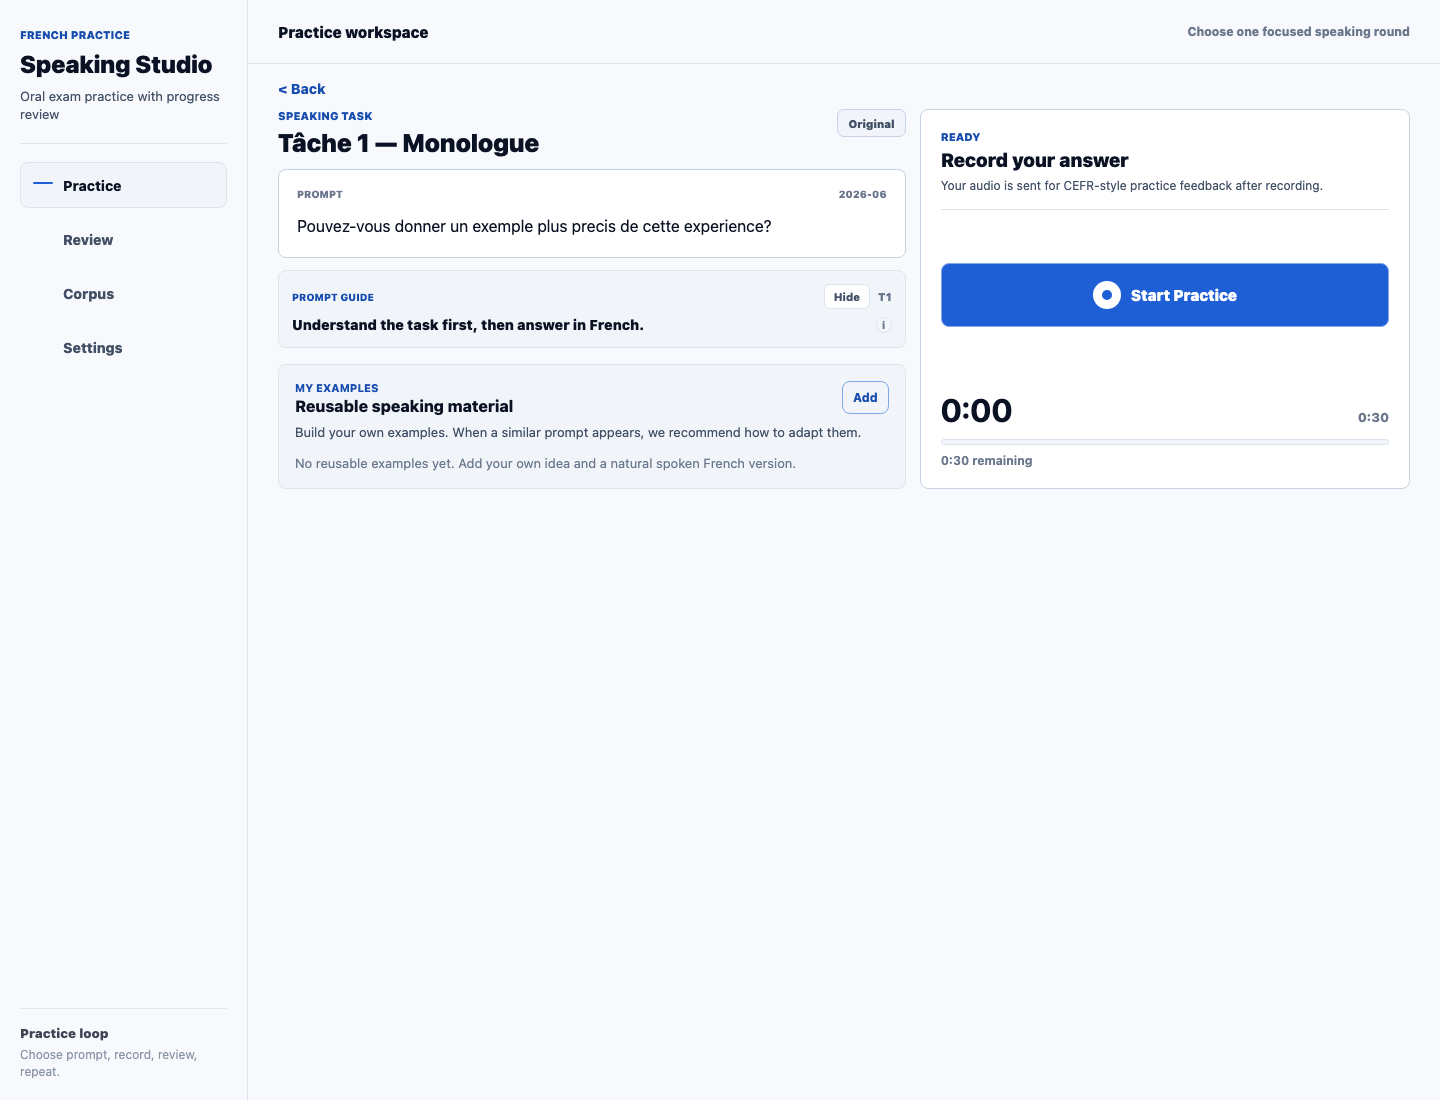
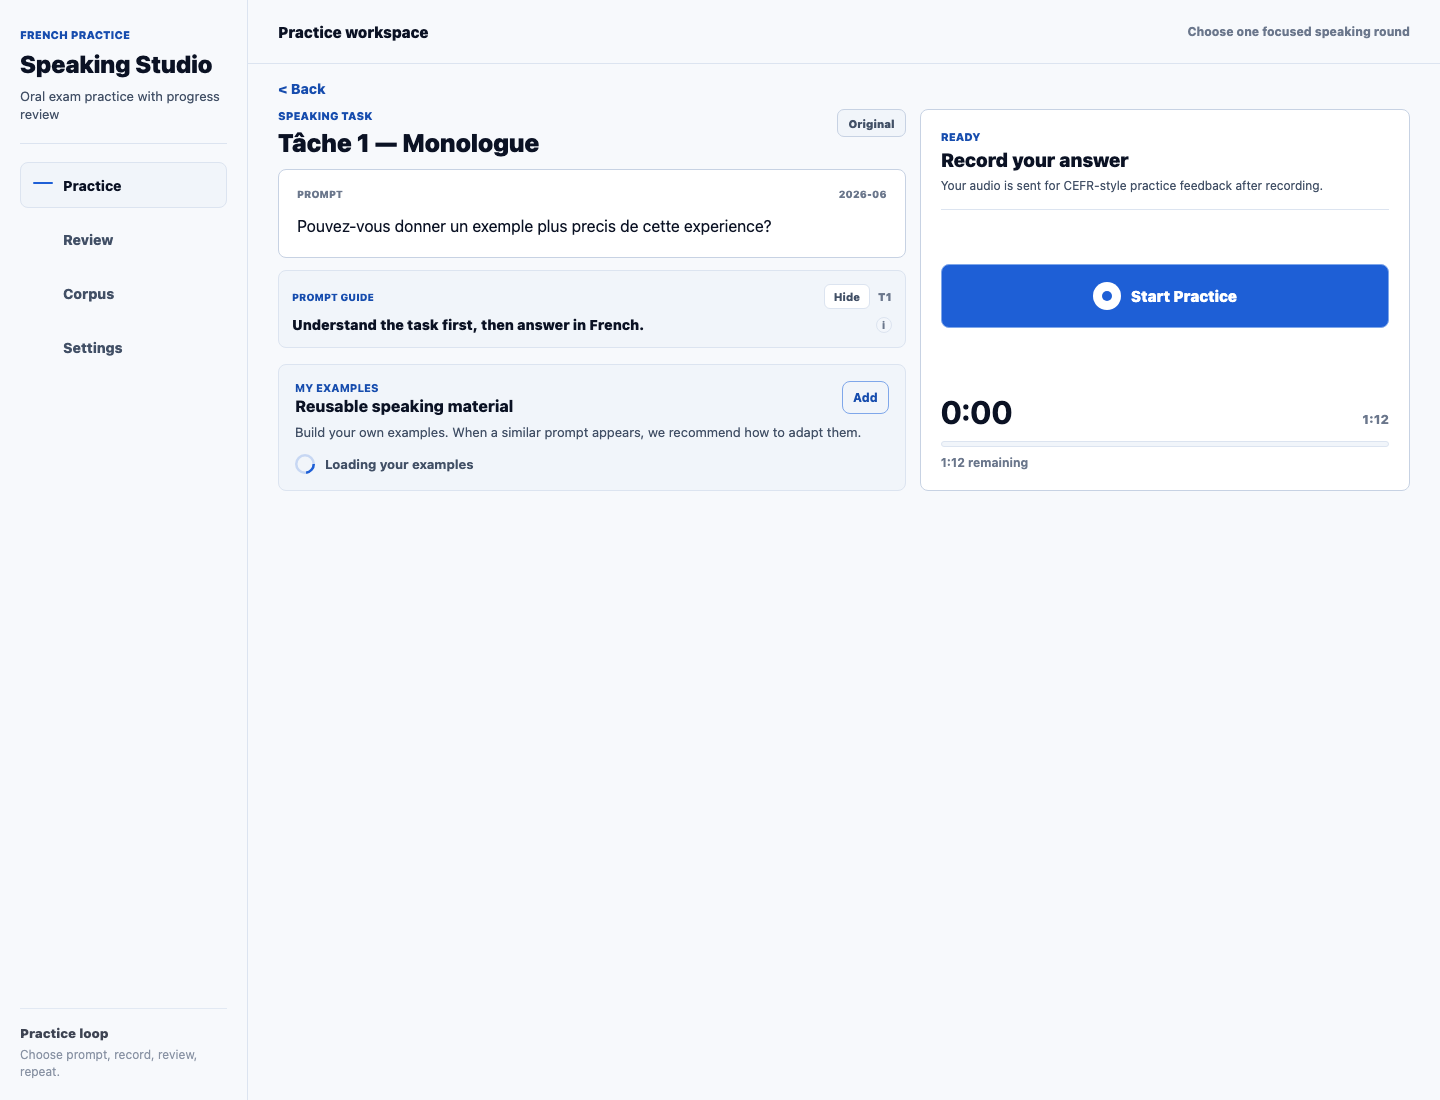
docs: show shared follow-up timing

diff --git a/index.html b/index.html
@@ -165,11 +165,11 @@
             </div>
           </article>
           <article>
-            <img src="assets/follow-up-recording.png" alt="Real product screen showing a timed T1 follow-up answer with a 30 second limit" />
+            <img src="assets/follow-up-recording.png" alt="Real product screen showing a timed T1 follow-up answer with a 2 minute remaining window" />
             <div>
               <span data-i18n="evidence.timedLabel">Timed follow-up</span>
-              <h3 data-i18n="evidence.timedTitle">Short follow-up answers keep the exam rhythm.</h3>
-              <p data-i18n="evidence.timedText">T1 follow-ups use 30 seconds and T3 follow-ups use 45 seconds, so practice stays close to real oral-exam pacing.</p>
+              <h3 data-i18n="evidence.timedTitle">Follow-ups share the official task window.</h3>
+              <p data-i18n="evidence.timedText">T1 main answer plus follow-ups stay inside 2:00. T3 main answer plus follow-ups stay inside 4:30. Learners can stop early, with a warning that short answers may affect the estimate.</p>
             </div>
           </article>
           <article>
@@ -317,8 +317,8 @@
           "evidence.aiTitle": "T1/T3 follow-ups and T2 interactive dialogue.",
           "evidence.aiText": "After T1 or T3, the app can ask examiner-style follow-up questions based on the learner's own answer. T2 is already a multi-turn examiner dialogue.",
           "evidence.timedLabel": "Timed follow-up",
-          "evidence.timedTitle": "Short follow-up answers keep the exam rhythm.",
-          "evidence.timedText": "T1 follow-ups use 30 seconds and T3 follow-ups use 45 seconds, so practice stays close to real oral-exam pacing.",
+          "evidence.timedTitle": "Follow-ups share the official task window.",
+          "evidence.timedText": "T1 main answer plus follow-ups stay inside 2:00. T3 main answer plus follow-ups stay inside 4:30. Learners can stop early, with a warning that short answers may affect the estimate.",
           "evidence.reportLabel": "Composite report",
           "evidence.reportTitle": "The report appears after the follow-up sequence.",
           "evidence.reportText": "The final report combines the main answer and practiced follow-ups, while still allowing optional extra follow-up practice.",
@@ -395,8 +395,8 @@
           "evidence.aiTitle": "T1/T3 答完後追問；T2 是互動對話。",
           "evidence.aiText": "T1 或 T3 回答後，App 可以像考官一樣根據學習者剛剛的回答追問；T2 本身就是多輪考官式互動。",
           "evidence.timedLabel": "限時追問",
-          "evidence.timedTitle": "短答追問更接近真實考試節奏。",
-          "evidence.timedText": "T1 追問限時 30 秒，T3 追問限時 45 秒，讓練習節奏更貼近口說考試。",
+          "evidence.timedTitle": "追問共用官方任務時間。",
+          "evidence.timedText": "T1 主回答加追問維持在 2:00 內；T3 主回答加追問維持在 4:30 內。學習者可提早 Stop，但短答會跳出可能影響評估的提醒。",
           "evidence.reportLabel": "合成報告",
           "evidence.reportTitle": "追問流程後才顯示完整報告。",
           "evidence.reportText": "最後報告會合成主回答與已完成追問；使用者仍可在報告後繼續做額外追問練習。",
@@ -477,8 +477,8 @@
         "evidence.aiTitle": "T1/T3 答完后追问；T2 是互动对话。",
         "evidence.aiText": "T1 或 T3 回答后，App 可以像考官一样根据学习者刚刚的回答追问；T2 本身就是多轮考官式互动。",
         "evidence.timedLabel": "限时追问",
-        "evidence.timedTitle": "短答追问更接近真实考试节奏。",
-        "evidence.timedText": "T1 追问限时 30 秒，T3 追问限时 45 秒，让练习节奏更贴近口语考试。",
+        "evidence.timedTitle": "追问共用官方任务时间。",
+        "evidence.timedText": "T1 主回答加追问维持在 2:00 内；T3 主回答加追问维持在 4:30 内。学习者可提前 Stop，但短答会弹出可能影响评估的提醒。",
         "evidence.reportLabel": "合成报告",
         "evidence.reportTitle": "追问流程后才显示完整报告。",
         "evidence.reportText": "最后报告会合成主回答与已完成追问；用户仍可在报告后继续做额外追问练习。",
@@ -557,8 +557,8 @@
         "evidence.aiTitle": "Suivi T1/T3 et dialogue interactif T2.",
         "evidence.aiText": "Apres T1 ou T3, l'app peut poser des questions de suivi comme un examinateur, a partir de la reponse de l'apprenant. T2 est deja un dialogue multi-tour.",
         "evidence.timedLabel": "Suivi minute",
-        "evidence.timedTitle": "Des reponses courtes gardent le rythme de l'examen.",
-        "evidence.timedText": "Les suivis T1 durent 30 secondes et les suivis T3 45 secondes, pour rester proches du rythme oral reel.",
+        "evidence.timedTitle": "Les suivis partagent la duree officielle.",
+        "evidence.timedText": "La reponse principale et les suivis restent dans 2:00 pour T1 et 4:30 pour T3. L'apprenant peut s'arreter plus tot, avec un avertissement sur l'effet possible d'une reponse courte.",
         "evidence.reportLabel": "Rapport composite",
         "evidence.reportTitle": "Le rapport apparait apres la sequence de suivi.",
         "evidence.reportText": "Le rapport final combine la reponse principale et les suivis pratiques, avec la possibilite de continuer des suivis optionnels.",